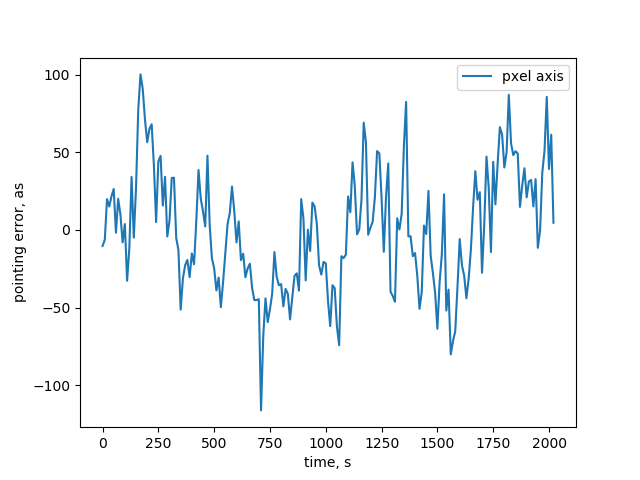
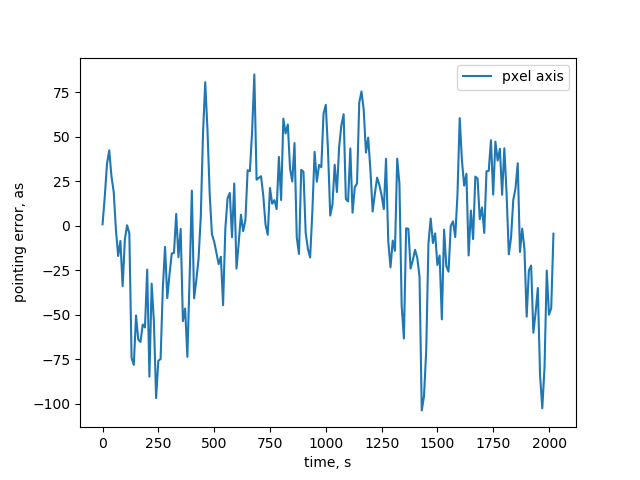
Clarify parts

diff --git a/pointing_error_models/time_series.py b/pointing_error_models/time_series.py
@@ -1,14 +1,21 @@
-import numpy as np, os
+import numpy as np, os, sys
 from matplotlib import pyplot as plt
 from scipy import optimize
 
+# 2.864
+
+#1.109 without plot 1.097 without check
 
 psd = np.loadtxt("PSD_data/El45Az135.dat")
 
 plotdir = "plots/"
+outdir = "out/"
 
 if not os.path.isdir(plotdir):
     os.system('mkdir '+plotdir)
+
+if not os.path.isdir(outdir):
+    os.system('mkdir '+outdir)
 
 # inspect psds
 plt.subplot(221)
@@ -38,25 +45,44 @@ axesdict =    {
   "pel": psd[:,4]
 }
 
+doplot = 1 # turn off for speed
+
 axes = ["az","el","pxel", "pel"]
+
+
+time_stamps = 65 # currently need to increase (reduce) freq_interval to reduce (increase) number of time series points
 
 for axis in axes:
     print ('*** Creating times series from PSD of %s axis ***'%axis)
     az = axesdict[axis]
 
     freq_interval = 0.001
+
+    # the orginal PSD need to be resampled in order to obtain fixed frequency intervals fot the IFFT
+    # each PSD is broken into two parts in order to produce better polynomial fits to the data
+    # the az and el PSDs have a peak value mid-spectrum; the break is therefore located near this peak (trial and error to find best break)
+    # the pxel and pel PSDs do not have a peak mid-spectrum, so a break is chosen at an arbitrary freequency after trial and error
     if (axis=="az") or (axis=="el"):   
         # determine index of maximum PSD value; add 50 for better fit
         az_max_index = np.argwhere(az==np.max(az))[0][0]+50
+        # the maximum frequency is chosen to represent the top of the range of significant power; this may need to change for different PSDs
+        # at low power values there is a danger of the fit producing negative values at the re-sampling stage
         max_freq = 0.4
-
         freq_max_index = np.argwhere(freq>max_freq)[0][0]
     else: 
-        az_max_index = 400 # not max; just a break
-        print ('frequency break: ', az_max_index)
+        break_freq = 0.01 # not max; just a break
+        az_max_index = np.argwhere(freq>break_freq)[0][0]
+        # the maximum frequency is chosen to represent the top of the range of significant power; this may need to change for different PSDs
+        # at low power values there is a danger of the fit producing negative values at the re-sampling stage
         max_freq = 0.1
         freq_max_index = np.argwhere(freq>max_freq)[0][0]     
-        print ('max frequency: ', max_freq)   
+
+    print ('Frequency break: ', freq[az_max_index])
+    print ('Max frequency: ', max_freq)  
+
+    if az_max_index>=freq_max_index:
+        print ('Frequency break is higher than highest frequency; select a lower break')    
+        sys.exit()
 
     # fit polynomial to psd up to max value
     p_az1 = np.polyfit(freq[:az_max_index], az[:az_max_index], 5)
@@ -64,6 +90,9 @@ for axis in axes:
     # fit polynomial to psd beyond max value
     p_az2 = np.polyfit(freq[az_max_index:freq_max_index], az[az_max_index:freq_max_index], 5)
     f_az2 = np.poly1d(p_az2)
+
+
+    #freq_interval2 = (freq[freq_max_index]-freq[0])/time_stamps
 
     # resampled to construct regularly-spaced frequencies
     regular_freq1 = np.arange(freq[0], freq[az_max_index], freq_interval)
@@ -73,14 +102,19 @@ for axis in axes:
     regular_freq = np.append(regular_freq1, regular_freq2)
     regular_az = np.append(regular_az1,regular_az2)
 
-    # check sampling matches psd
-    plt.clf()
-    plt.semilogx(freq, (az), label = 'same')
-    plt.semilogx(regular_freq, regular_az, label = 'regular')
-    plt.ylabel('PSD, as^2/Hz')
-    plt.xlabel('f, Hz')
-    plt.legend()    
-    plt.savefig(plotdir+'sampled_psd_%s.png'%axis)
+    if (regular_az<0).any():
+        print ('Resampling returns negative power values; change fit range')
+        sys.exit()
+
+    if doplot:
+        # check sampling matches psd
+        plt.clf()
+        plt.semilogx(freq, (az), label = 'same')
+        plt.semilogx(regular_freq, regular_az, label = 'regular')
+        plt.ylabel('PSD, as^2/Hz')
+        plt.xlabel('f, Hz')
+        plt.legend()    
+        plt.savefig(plotdir+'sampled_psd_%s.png'%axis)
 
     # get amplitudes from psd values
     amp_az = np.sqrt(regular_az) 
@@ -135,25 +169,31 @@ for axis in axes:
 
     # The output of the iFFT will be a random time series on the finite 
     # (bounded, limited) time interval t = 0 to tmax = (N-1) X Dt, #
-    # where Dt = 1 / (2 X Fmax)
+    # where Dt = 1 / (Fmax)
 
     # scale to time interval
     times = np.arange(len(ts))*Dt
 
-    # plot results
-    plt.clf()
-    plt.plot( times, np.real(ts), label = '%s axis'%axis)
-    plt.xlabel('time, s')
-    plt.ylabel('pointing error, as')
-    plt.legend()
-    plt.savefig(plotdir+'time_series_%s.png'%axis)
+    if doplot:
+
+        # plot results
+        plt.clf()
+        plt.plot( times, np.real(ts), label = '%s axis'%axis)
+        plt.xlabel('time, s')
+        plt.ylabel('pointing error, as')
+        plt.legend()
+        plt.savefig(plotdir+'time_series_%s.png'%axis)
     
-    # check fft returns original PSD (amplitudes plotted again)
-    ts.real/=np.float(N)
-    fft =  np.fft.fft(ts)
-    plt.clf()
-    plt.scatter(np.arange(len(fft)), np.absolute(fft), label = '%s axis'%axis) 
-    plt.xlabel('mode')
-    plt.ylabel('amplitude, as/SQRT(Hz)')
-    plt.legend()
-    plt.savefig(plotdir+'check_FFT_%s.png'%axis)
+    np.save(outdir+'time_series_%s'%axis, ts)
+
+    if doplot:
+        # check fft returns original PSD (amplitudes plotted again)
+        ts.real/=np.float(N)
+        fft =  np.fft.fft(ts)
+
+        plt.clf()
+        plt.scatter(np.arange(len(fft)), np.absolute(fft), label = '%s axis'%axis) 
+        plt.xlabel('mode')
+        plt.ylabel('amplitude, as/SQRT(Hz)')
+        plt.legend()
+        plt.savefig(plotdir+'check_FFT_%s.png'%axis)
